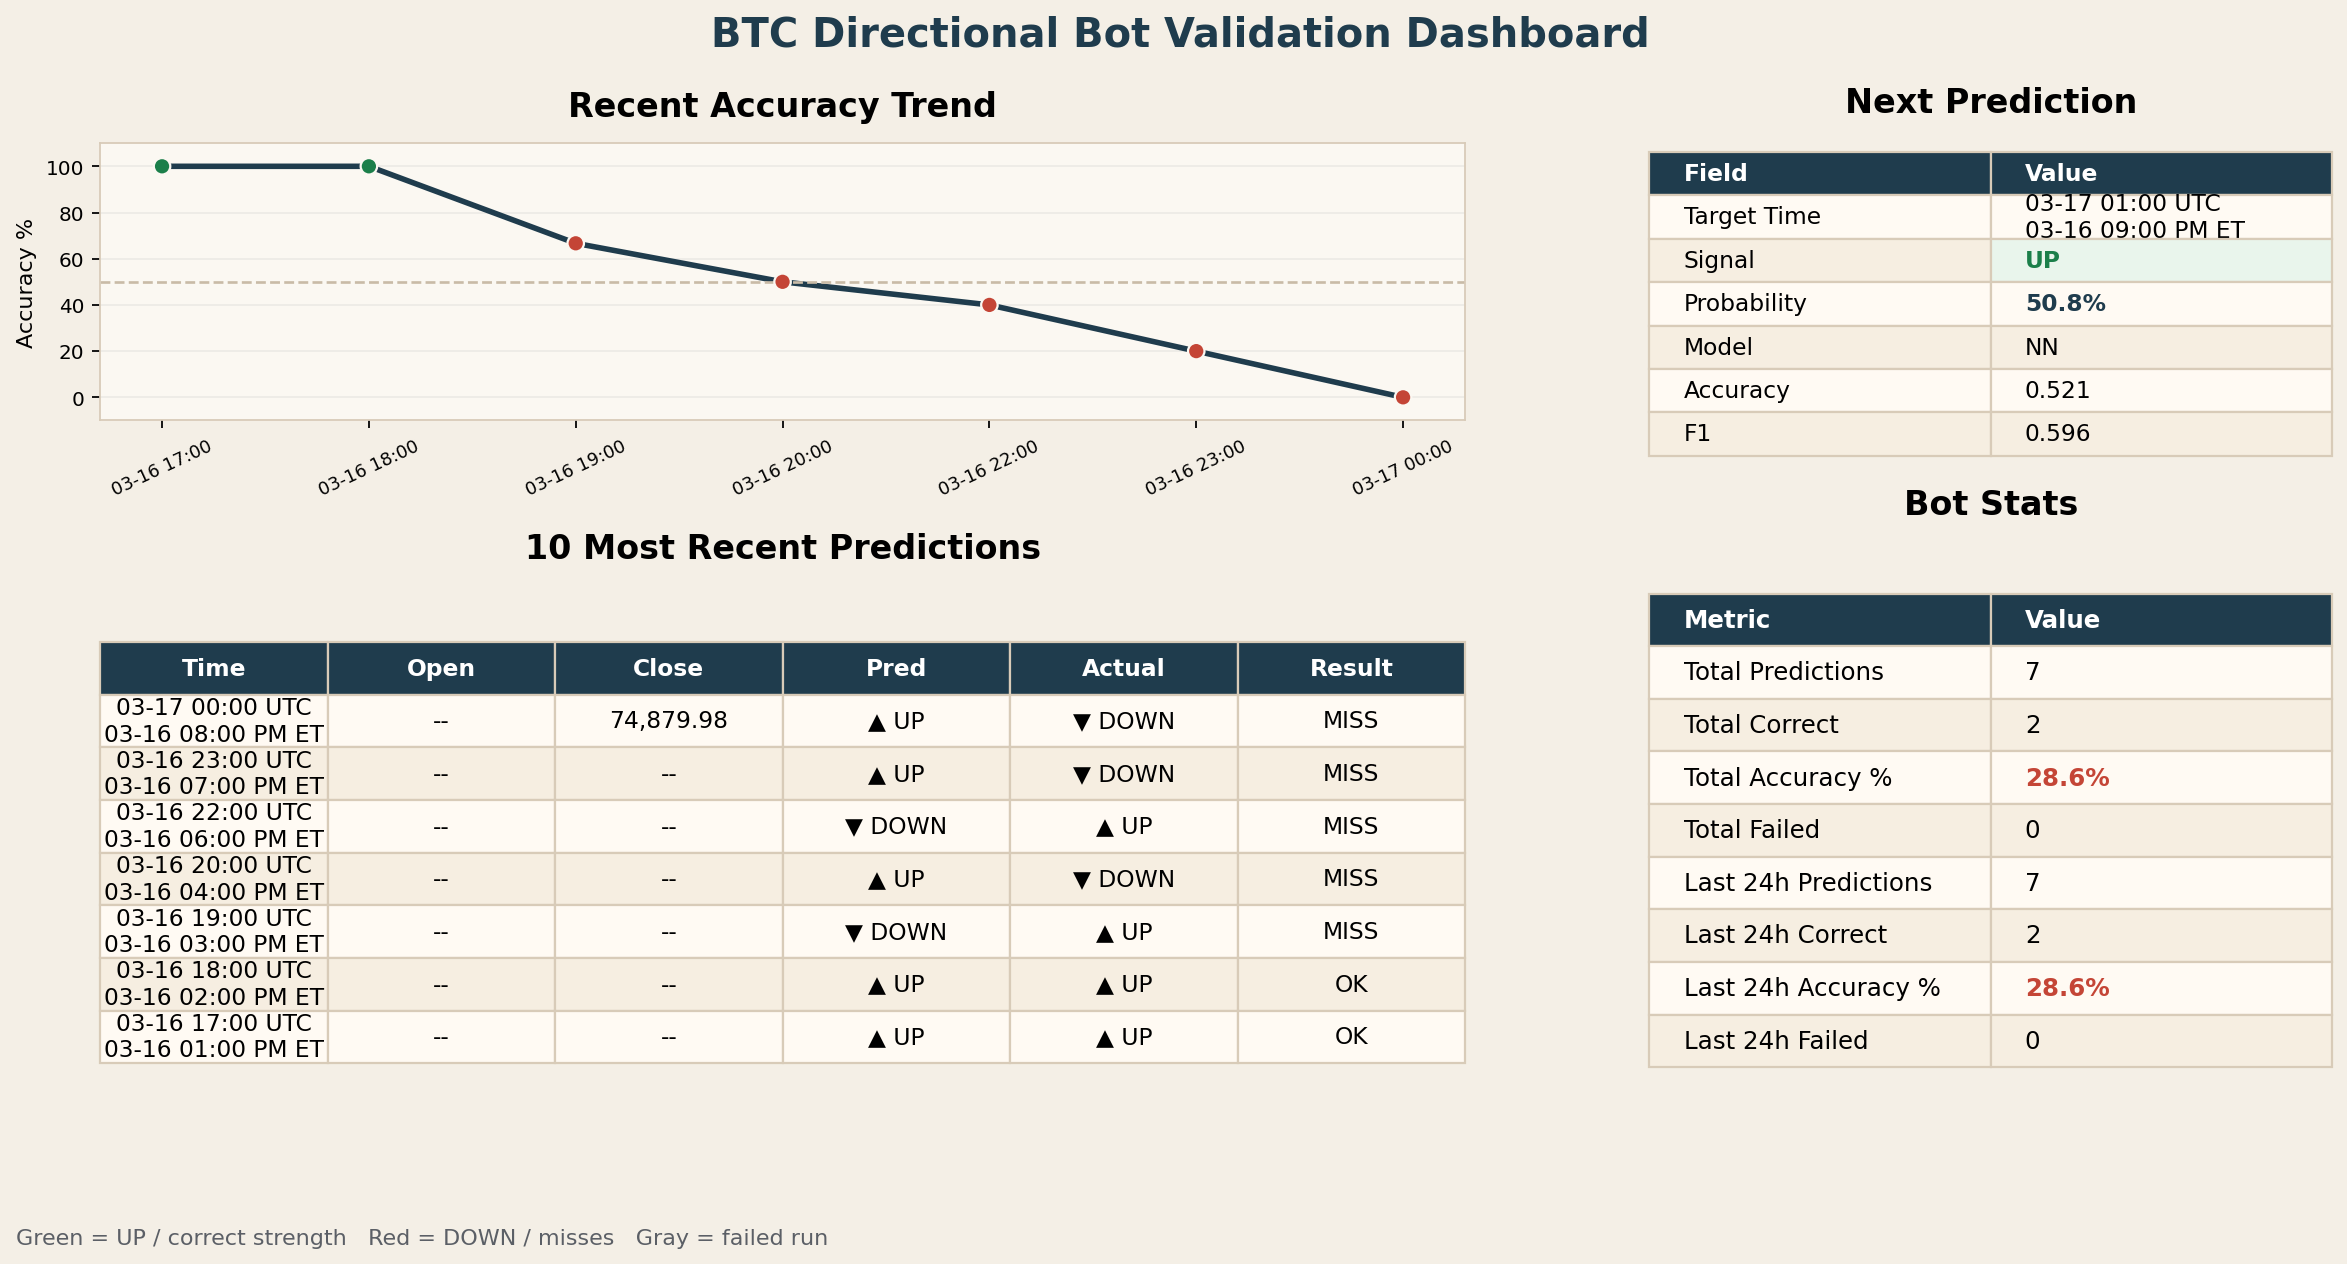
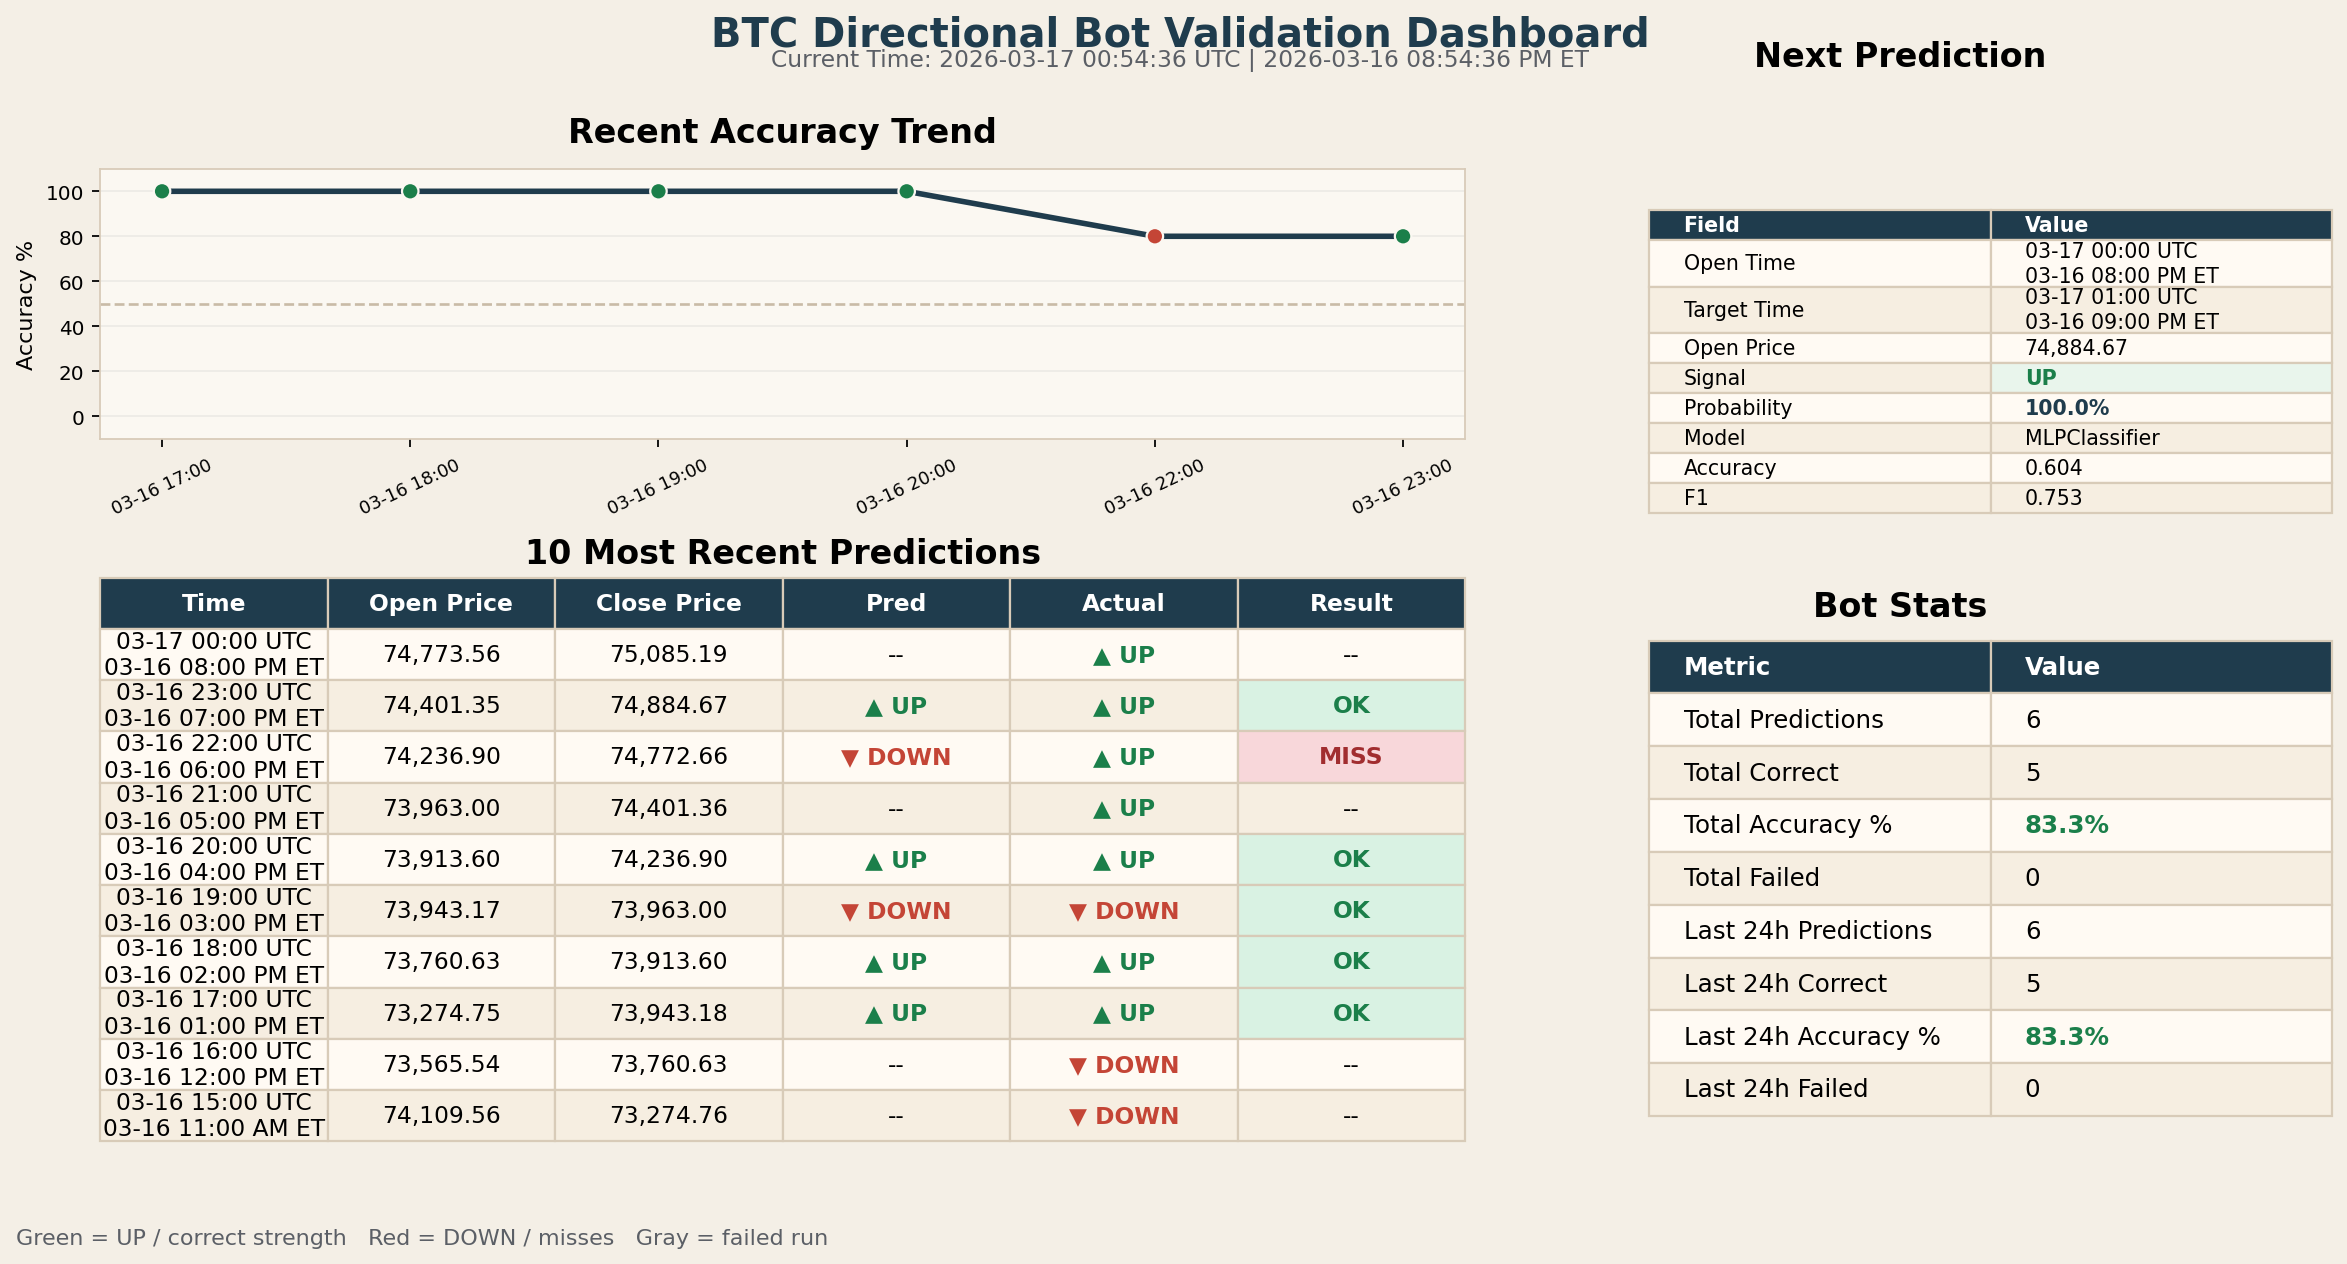
Refine dashboard layout and recent history handling

diff --git a/validate_dashboard.py b/validate_dashboard.py
@@ -165,6 +165,55 @@ def remove_incomplete_validations(history: pd.DataFrame) -> pd.DataFrame:
     return cleaned
 
 
+def ensure_recent_history_slots(history: pd.DataFrame, hours: int = 10) -> pd.DataFrame:
+    now_utc = pd.Timestamp.now(tz="UTC")
+    latest_available_target = now_utc.floor("h")
+    expected_timestamps = [
+        latest_available_target - pd.Timedelta(hours=offset)
+        for offset in range(hours)
+    ]
+
+    updated = history.copy()
+    existing_timestamps = set()
+    if not updated.empty:
+        existing_timestamps = {
+            pd.Timestamp(ts).tz_convert("UTC") if pd.Timestamp(ts).tzinfo else pd.Timestamp(ts).tz_localize("UTC")
+            for ts in updated["timestamp"]
+        }
+
+    missing_rows: list[dict[str, Any]] = []
+    for target_ts in expected_timestamps:
+        if target_ts in existing_timestamps:
+            continue
+        missing_rows.append(
+            {
+                "timestamp": target_ts,
+                "predicted": "",
+                "actual": "",
+                "result": "",
+                "failed": 0,
+                "status": "missing",
+                "reference_open": pd.NA,
+                "reference_close": pd.NA,
+                "target_open": pd.NA,
+                "target_close": pd.NA,
+            }
+        )
+
+    if not missing_rows:
+        return updated
+
+    missing_frame = pd.DataFrame(missing_rows)
+    if updated.empty:
+        updated = missing_frame
+    else:
+        missing_frame = missing_frame.reindex(columns=updated.columns)
+        updated = pd.concat([updated, missing_frame], ignore_index=True)
+    updated = updated.sort_values("timestamp").reset_index(drop=True)
+    updated.to_csv(HISTORY_PATH, index=False)
+    return updated
+
+
 def compute_stats(history: pd.DataFrame) -> dict[str, int]:
     if history.empty:
         return {
@@ -180,13 +229,17 @@ def compute_stats(history: pd.DataFrame) -> dict[str, int]:
 
     now = pd.Timestamp.utcnow()
     last_24h_cutoff = now - pd.Timedelta(hours=24)
-    recent = history[history["timestamp"] >= last_24h_cutoff]
-    total_predictions = int(len(history))
-    total_correct = int(history["result"].sum())
-    total_failed = int(history["failed"].sum())
+    counted = history[
+        (history["status"] != "missing")
+        & (history["predicted"].fillna("").astype(str) != "")
+    ]
+    recent = counted[counted["timestamp"] >= last_24h_cutoff]
+    total_predictions = int(len(counted))
+    total_correct = int(pd.to_numeric(counted["result"], errors="coerce").fillna(0).sum())
+    total_failed = int(pd.to_numeric(counted["failed"], errors="coerce").fillna(0).sum())
     last_24h_predictions = int(len(recent))
-    last_24h_correct = int(recent["result"].sum())
-    last_24h_failed = int(recent["failed"].sum())
+    last_24h_correct = int(pd.to_numeric(recent["result"], errors="coerce").fillna(0).sum())
+    last_24h_failed = int(pd.to_numeric(recent["failed"], errors="coerce").fillna(0).sum())
     total_scored = max(total_predictions - total_failed, 0)
     last_24h_scored = max(last_24h_predictions - last_24h_failed, 0)
     return {
@@ -267,22 +320,33 @@ def normalize_history_labels(history: pd.DataFrame) -> pd.DataFrame:
     updated = history.copy()
     changed = False
     for idx, row in updated.iterrows():
-        if int(row.get("failed", 0)) == 1 or str(row.get("status", "")) != "validated":
+        if int(row.get("failed", 0)) == 1:
             continue
         if pd.isna(row["reference_open"]) or pd.isna(row["target_open"]):
             continue
 
         actual_label = int(float(row["target_open"]) > float(row["reference_open"]))
         predicted_value = row["predicted"]
-        if pd.isna(predicted_value) or str(predicted_value).upper() == "FAILED":
+        predicted_text = "" if pd.isna(predicted_value) else str(predicted_value).strip()
+        if pd.isna(row["actual"]) or str(row["actual"]).strip() == "" or int(float(row["actual"])) != actual_label:
+            updated.at[idx, "actual"] = actual_label
+            changed = True
+
+        if predicted_text == "" or predicted_text.upper() == "FAILED":
+            if str(row.get("status", "")) == "validated" and (pd.isna(row["result"]) or str(row["result"]).strip() == ""):
+                continue
+            if str(row.get("status", "")) == "missing":
+                continue
             continue
 
         predicted_label = int(predicted_value)
         result = int(predicted_label == actual_label)
 
-        if int(row["actual"]) != actual_label or int(row["result"]) != result:
-            updated.at[idx, "actual"] = actual_label
+        current_result = row["result"]
+        if pd.isna(current_result) or str(current_result).strip() == "" or int(float(current_result)) != result:
             updated.at[idx, "result"] = result
+            if str(row.get("status", "")) == "missing":
+                updated.at[idx, "status"] = "validated"
             changed = True
 
     if changed:
@@ -328,7 +392,7 @@ def render_dashboard(
     )
     ax_trend = fig.add_subplot(grid[0, 0])
     ax_chart = fig.add_subplot(grid[1, 0])
-    right_grid = grid[:, 1].subgridspec(2, 1, height_ratios=[0.72, 1.28], hspace=0.18)
+    right_grid = grid[:, 1].subgridspec(2, 1, height_ratios=[0.8, 1.2], hspace=0.2)
     ax_next = fig.add_subplot(right_grid[0, 0])
     ax_table = fig.add_subplot(right_grid[1, 0])
     fig.patch.set_facecolor("#f4efe6")
@@ -355,7 +419,13 @@ def render_dashboard(
             spine.set_visible(False)
     else:
         trend_history = history.sort_values("timestamp").tail(20).copy()
-        scored = trend_history[trend_history["failed"] == 0].copy()
+        scored = trend_history[
+            (pd.to_numeric(trend_history["failed"], errors="coerce").fillna(0) == 0)
+            & (trend_history["status"] != "missing")
+            & (trend_history["predicted"].fillna("").astype(str).str.strip() != "")
+        ].copy()
+        scored["result"] = pd.to_numeric(scored["result"], errors="coerce")
+        scored = scored[scored["result"].notna()].copy()
         if scored.empty:
             ax_trend.text(
                 0.5,
@@ -434,22 +504,25 @@ def render_dashboard(
         def to_result(row: pd.Series) -> str:
             if int(row["failed"]) == 1:
                 return "FAILED"
+            result_value = row["result"]
+            if pd.isna(result_value) or str(result_value).strip() == "":
+                return "--"
             return "OK" if int(row["result"]) == 1 else "MISS"
 
         recent_rows = [
             [
                 format_dual_time(row["timestamp"]),
                 (
-                    f"{float(row['target_open']):,.2f}"
-                    if pd.notna(row["target_open"])
+                    f"{float(row['reference_open']):,.2f}"
+                    if pd.notna(row["reference_open"])
                     else "--"
                 ),
                 (
-                    f"{float(row['target_open']):,.2f}"
-                    if pd.notna(row["target_open"])
+                    f"{float(row['target_close']):,.2f}"
+                    if pd.notna(row["target_close"])
                     else (
-                        f"{float(row['target_close']):,.2f}"
-                        if pd.notna(row["target_close"])
+                        f"{float(row['target_open']):,.2f}"
+                        if pd.notna(row["target_open"])
                         else "--"
                     )
                 ),
@@ -462,7 +535,7 @@ def render_dashboard(
 
     recent_table = ax_chart.table(
         cellText=recent_rows,
-        colLabels=["Time", "Open Price", "Target Open", "Pred", "Actual", "Result"],
+        colLabels=["Time", "Open Price", "Close Price", "Pred", "Actual", "Result"],
         loc="center",
         cellLoc="center",
         colLoc="center",
@@ -552,13 +625,13 @@ def render_dashboard(
     next_table = ax_next.table(
         cellText=next_rows,
         colLabels=["Field", "Value"],
-        loc="center",
+        bbox=[0, 0.0, 1, 0.88],
         cellLoc="left",
         colLoc="left",
     )
-    next_table.scale(1, 1.65)
+    next_table.scale(1, 2.15)
     next_table.auto_set_font_size(False)
-    next_table.set_fontsize(10.5)
+    next_table.set_fontsize(9.25)
 
     for (row_idx, col_idx), cell in next_table.get_celld().items():
         cell.set_edgecolor("#d8cbb8")
@@ -567,6 +640,9 @@ def render_dashboard(
             cell.set_text_props(color="white", weight="bold")
             continue
         cell.set_facecolor("#fffaf3" if row_idx % 2 else "#f6eee1")
+        if row_idx in {1, 2}:
+            cell.set_height(cell.get_height() * 1.55)
+            cell.get_text().set_linespacing(1.3)
         if col_idx == 1:
             value_text = str(cell.get_text().get_text())
             if row_idx == 4:
@@ -591,7 +667,7 @@ def render_dashboard(
     table = ax_table.table(
         cellText=table_rows,
         colLabels=["Metric", "Value"],
-        loc="center",
+        bbox=[0, 0.0, 1, 0.92],
         cellLoc="left",
         colLoc="left",
     )
@@ -631,7 +707,7 @@ def render_dashboard(
     )
     fig.text(
         0.80,
-        0.905,
+        0.935,
         "Next Prediction",
         ha="center",
         va="bottom",
@@ -641,7 +717,7 @@ def render_dashboard(
     )
     fig.text(
         0.80,
-        0.49,
+        0.505,
         "Bot Stats",
         ha="center",
         va="bottom",
@@ -668,7 +744,11 @@ def main() -> None:
     prediction_record = load_last_prediction()
 
     history = remove_incomplete_validations(
-        normalize_history_labels(backfill_recent_history_prices(load_history()))
+        normalize_history_labels(
+            backfill_recent_history_prices(
+                ensure_recent_history_slots(load_history())
+            )
+        )
     )
     if prediction_record is None:
         stats = compute_stats(history)
